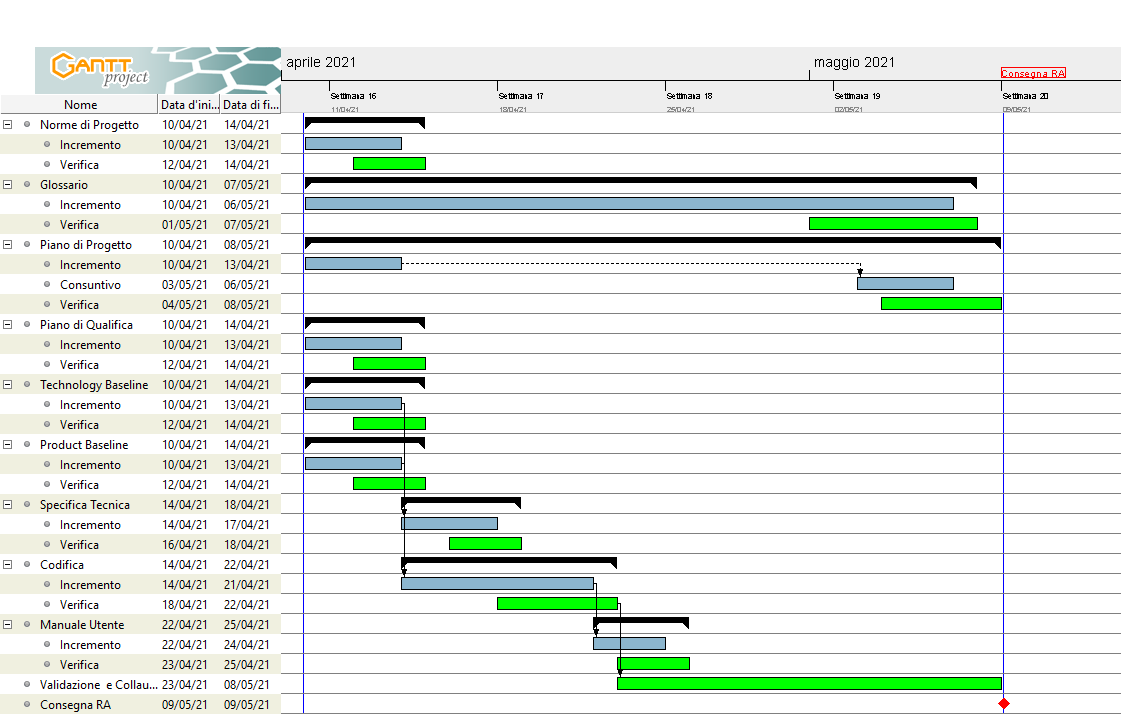
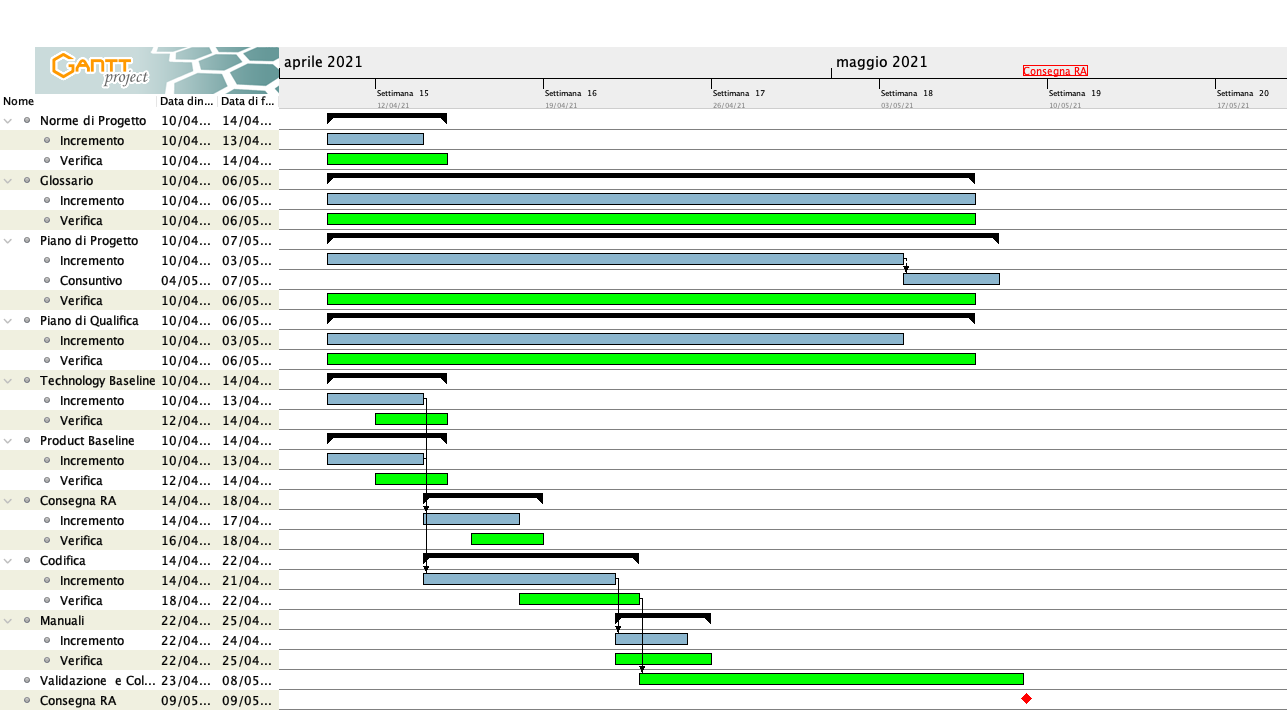
finito correzioni veloci pdp

Changed region(s): [[0.0, 0.062, 1.0, 1.0]]

diff --git a/DocumentiPubblici/PianoDiProgetto/Sezioni/AttualizzazioneDeiRischi.tex b/DocumentiPubblici/PianoDiProgetto/Sezioni/AttualizzazioneDeiRischi.tex
@@ -1,7 +1,7 @@
 \appendix
 \section{Attualizzazione dei rischi}
 \label{attualizzazione_dei_rischi}
-In questa sezione viene esposto come il gruppo \Gruppo\ ha affrontato le varie problematiche incontrate durante lo svolgimento del progetto.
+In questa sezione viene esposto come il gruppo \Gruppo\ ha affrontato le varie problematiche incontrate durante lo svolgimento del progetto e quali rischi e soluzioni si aspetta di avere durante i vari periodi.
 \subsection{Rischi legati alle tecnologie}
 \begin{table} [H]
 	\centering
@@ -12,6 +12,8 @@ In questa sezione viene esposto come il gruppo \Gruppo\ ha affrontato le varie p
     Mitigazione & Alcuni membri del gruppo non sono ancora esperti nell'utilizzo di \glo{GitHub} e sono sorti dei leggeri problemi riguardanti la gestione del \glo{repository}. I membri più esperti nell'utilizzo dello strumento hanno dedicato un po' del loro tempo per aiutare i compagni ad imparare ad utilizzare al meglio il repository.\\ \hline
 	Periodo & Progettazione architetturale.\\ \hline
 	Mitigazione & Data la poca esperienza della maggior parte dei componenti del gruppo con le tecnologie da impiegare nello sviluppo del progetto, in particolar modo con \glo{Typescript} e \glo{AWS Lambda}, i membri più esperti nell'utilizzo di queste tecnologie hanno condiviso le loro esperienze con gli altri membri del gruppo. Abbiamo deciso inoltre di dedicare una settimana intera per l'approfondimento individuale.\\ \hline
+	Periodo & Progettazione di dettaglio e codifica.\\ \hline
+	Mitigazione & I componenti che si sono occupati maggiormente dello sviluppo del \glo{PoC} hanno dato supporto al resto dei membri che hanno presentato alcune difficoltà legate all'utilizzo delle tecnologie. Il gruppo ha riscontrato delle difficoltà nell'individuare l'architettura e i relativi \glo{design pattern}. Per risolvere i dubbi si sono effettuate diverse ricerche e i componenti si sono confrontati più volte tra loro. \\ \hline	
 	\end{tabular}
 	\caption{\label{tab:ART1}Attualizzazione dei rischi per inesperienza tecnologica.}
 \end{table}
@@ -20,11 +22,17 @@ In questa sezione viene esposto come il gruppo \Gruppo\ ha affrontato le varie p
 	\centering
     \begin{tabular}{|c|p{11.5cm}|}
     \rowcolor{darkblue} \hline
-    \multicolumn{2}{|c|}{\textcolor{white}{\textbf{RG3 - Inesperienza gestionale}}}\\ \hline
+    \multicolumn{2}{|c|}{\textcolor{white}{\textbf{RG1 - Inesperienza gestionale}}}\\ \hline
     Periodo & Analisi.\\ \hline
     Mitigazione & Data l'inesperienza del gruppo nel coordinare il lavoro e alcuni lievi problemi di comunicazione si è verificato un ritardo riguardante la stesura o la verifica. Il gruppo ha cercato di recuperare eventuali mancanze il prima possibile. Essendo in un periodo iniziale del progetto i brevi ritardi verificatosi non hanno causato problemi allo svolgimento del progetto.\\ \hline
+    Periodo & Progettazione architetturale.\\ \hline
+    Mitigazione & Il gruppo ha dovuto procedere ad una serie di ripianificazioni delle attività per recuperare dei ritardi dati da una errata pianificazione delle risorse.\\ \hline
+    Periodo & Progettazione di dettaglio e codifica.\\ \hline
+    Mitigazione & Per poter evitare di avere dei ritardi come nel precedente periodo, il gruppo ha innanzitutto ricontrollato e corretto la pianificazione delle attività. Durante il periodo si sono inserite più milestone per poter valutare meglio l'andamento del lavoro.  \\ \hline
+    Periodo & Validazione e collaudo.\\ \hline
+    Mitigazione & Il gruppo prima di iniziare con le attività controllerà attentamente quanto pianificato nella sezione \S\ref{validazione_e_collaudo}.\\ \hline
     \end{tabular}
-    \caption{\label{tab:ARG3}Analisi dei rischi per inesperienza nel coordinamento.}
+    \caption{\label{tab:ARG3}Analisi dei rischi per inesperienza gestionale.}
 \end{table}
 \begin{table}[H]
 	\centering
@@ -33,8 +41,12 @@ In questa sezione viene esposto come il gruppo \Gruppo\ ha affrontato le varie p
 	\multicolumn{2}{|c|}{\textcolor{white}{\textbf{RG2 - Disponibilità dei membri}}}\\ \hline
 	Periodo & Progettazione architetturale.\\ \hline
 	Mitigazione & La sessione d'esame si è svolta in contemporanea con il periodo di progettazione architetturale e questo ha impegnato notevolmente alcuni membri del gruppo. Per assicurare il procedere del progetto, le varie \glo{attività} sono state momentaneamente suddivise tra i membri con maggiori disponibilità.\\ \hline
+	Periodo & Progettazione di dettaglio e codifica.\\ \hline
+	Mitigazione & In questo periodo i membri del gruppo si sono preparati per poter sostenere il primo appello scritto dell'esame Ingegneria del software, per assicurare il corretto andamento del progetto si sono effettuati incontri più ravvicinati tra i membri che si occupavano dello stesso ambito.\\ \hline
+	Periodo & Validazione e collaudo.\\ \hline
+	Mitigazione & In questo periodo è prevista l'eventualità che alcuni dei membri inizino lo stage universitario, è importante seguire con attenzione le attività pianificate per questo ci sarà uno stretto controllo sull'andamento del lavoro assegnato a ciascun membro.\\ \hline
 	\end{tabular}
-	\caption{\label{tab:ARG2}Analisi dei rischi per inesperienza nel coordinamento.}
+	\caption{\label{tab:ARG2}Analisi dei rischi per disponibilità dei membri.}
 \end{table}
 \subsection{Rischi legati all'organizzazione del lavoro}
 \begin{table}[H]
@@ -44,19 +56,12 @@ In questa sezione viene esposto come il gruppo \Gruppo\ ha affrontato le varie p
 		\multicolumn{2}{|c|}{\textcolor{white}{\textbf{RO1 - Costi delle attività}}}\\ \hline
 		Periodo & Progettazione architetturale.\\ \hline
 		Mitigazione & Si ha avuto una visione ottimistica nell'apprendimento da parte di tutti i membri delle numerose tecnologie impiegate nello sviluppo del progetto e nella riorganizzazione dell'\AdR{} in seguito alla discussione sostenuta con \CR{}. Per cercare di ridurre al minimo il tempo perso nello svolgimento del progetto, le varie \glo{attività} sono state momentaneamente suddivise tra i membri con maggiori disponibilità e si è deciso di dedicare maggior attenzione alla comprensione delle tecnologie e alla ristrutturazione dei casi d'uso presenti all'interno dell'\AdR{}.\\ \hline
+		Periodo & Progettazione di dettaglio e codifica.\\ \hline
+		Mitigazione & Per evitare ritardi, il gruppo si è diviso per poter inizialmente lavorare parallelamente assegnando ad alcuni membri le attività di sviluppo del front end e ai restanti le attività di sviluppo del back end.\\ \hline
 	\end{tabular}
 	\caption{\label{tab:ARO1}Analisi dei rischi per costi delle attività.}
 \end{table}
-\begin{table}[H]
-	\centering
-	\begin{tabular}{|c|p{11.5cm}|}
-		\rowcolor{darkblue} \hline
-		\multicolumn{2}{|c|}{\textcolor{white}{\textbf{RG2 - Disponibilità dei membri}}}\\ \hline
-		Periodo & Progettazione architetturale.\\ \hline
-		Mitigazione & La sessione d'esame si è svolta in contemporanea con il periodo di progettazione architetturale e questo ha impegnato notevolmente alcuni membri del gruppo. Per assicurare il procedere del progetto, le varie \glo{attività} sono state momentaneamente suddivise tra i membri con maggiori disponibilità.\\ \hline
-	\end{tabular}
-	\caption{\label{tab:ARO2}Analisi dei rischi per inesperienza nel coordinamento.}
-\end{table}
+
 \subsection{Rischi legati ai requisiti}
 \begin{table}[H]
 	\centering
@@ -65,6 +70,8 @@ In questa sezione viene esposto come il gruppo \Gruppo\ ha affrontato le varie p
 		\multicolumn{2}{|c|}{\textcolor{white}{\textbf{RR1 - Analisi dei requisiti imperfetta}}}\\ \hline
 		Periodo & Progettazione architetturale.\\ \hline
 		Mitigazione & A seguito delle osservazioni fatte in seguito alla \textbf{Revisione dei requisiti}, il gruppo {\Gruppo} ha rivisto completamente l'\AdR\ risultata incompleta e con gravi errori di base. Si è provveduto a completare le mancanze segnalate con la massima priorità.\\ \hline
+		Periodo & Progettazione di dettaglio e codifica.\\ \hline
+		Mitigazione & A seguito delle osservazioni fatte con la \textbf{Revisione di progettazione}, è stato raggiunto un buon livello di dettaglio nel documento ma sono stati segnalati nuovi errori che il gruppo ha provveduto a correggere.\\ \hline
 	\end{tabular}
 	\caption{\label{tab:ARR1}Analisi dei rischi per analisi dei requisiti imperfetta.}
 \end{table}

diff --git a/DocumentiPubblici/PianoDiProgetto/Sezioni/Sottosezioni/Pianificazione/ProgettazioneDiDettaglioECodifica.tex b/DocumentiPubblici/PianoDiProgetto/Sezioni/Sottosezioni/Pianificazione/ProgettazioneDiDettaglioECodifica.tex
@@ -30,7 +30,7 @@ Le postcondizioni sono:
     \item \textbf{Manuale utente e manutentore:} documenti redatti rispettivamente per indicare le istruzioni d'uso specifiche per l'utente e per supportare eventuali sviluppatori attraverso la descrizione dell'architettura del sistema.
 \end{itemize}
 \newpage
-\subsubsection{Diagramma di Gantt: Progettazione di dettaglio e codifica}
+\subsubsection{Diagramma di Gantt: Progettazione di dettaglio e codifica} \label{GanttPDettaglio}
 \begin{figure}[ht]
     \centering
     \includegraphics[width=\textwidth]{Immagini/GanttProgettazioneDiDettaglioECodifica}

diff --git a/DocumentiPubblici/PianoDiProgetto/Sezioni/RegistroModifiche.tex b/DocumentiPubblici/PianoDiProgetto/Sezioni/RegistroModifiche.tex
@@ -1,5 +1,7 @@
 \registroModifiche{
 	
+	2.1	  & 2021\_03\_22 & \TG{} & Responsabile & \PC & Aggiornata sezione \S\ref{attualizzazione_dei_rischi}, corretto sezione \S\ref{progettazione_di_dettaglio} e immagine sezione \S\ref{modello_di_sviluppo} e gantt sezione \S\ref{GanttPDettaglio}.\\
+	
 	2.0	  & 2021\_03\_06 & \VD{} & Responsabile & - & Approvazione del documento.\\
 	
 	1.6	  & 2021\_03\_05 & \TG{} & Amministratore & \TL{} & Aggiornata sezione \S\ref{ConsuntivoPArchitetturale} e \S\ref{Paf}.\\
